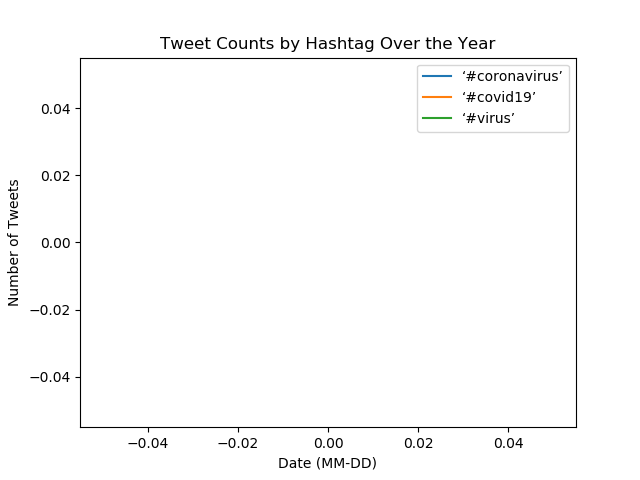
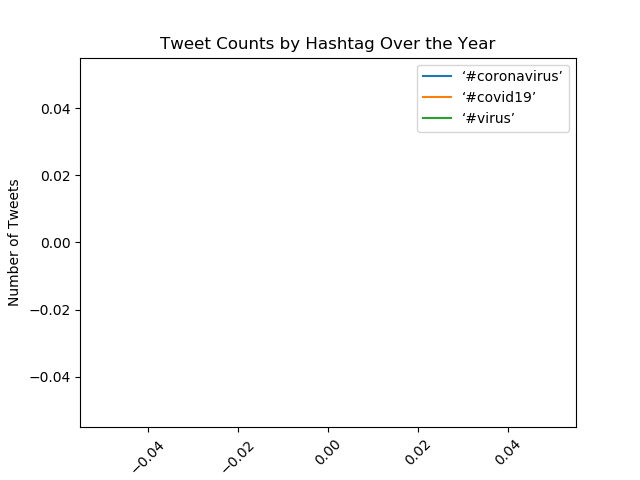
update test.png

diff --git a/src/test_reduce.py b/src/test_reduce.py
@@ -6,8 +6,8 @@ import json
 import matplotlib
 matplotlib.use('Agg')  # Use the Agg backend for non-interactive mode
 import matplotlib.pyplot as plt
+from datetime import datetime
 from collections import defaultdict
-from datetime import datetime, timedelta
 
 # Command line args
 parser = argparse.ArgumentParser()
@@ -17,7 +17,7 @@ parser.add_argument('--output_path', required=True)
 args = parser.parse_args()
 
 # Initialize data structure to store tweet counts per hashtag per day
-data = defaultdict(lambda: defaultdict(int))
+data = defaultdict(list)
 
 # Load data from input paths
 for hashtag in args.hashtags:
@@ -25,25 +25,28 @@ for hashtag in args.hashtags:
         with open(path) as f:
             tmp = json.load(f)
             if hashtag in tmp:
-                for date_str, count in tmp[hashtag].items():
-                    date = datetime.strptime(date_str, "%Y-%m-%d")  # Assuming dates are in ISO format
-                    day_of_year = date.timetuple().tm_yday
-                    data[hashtag][day_of_year] += count
+                data[hashtag].append(sum(tmp[hashtag].values()))
+
+# Convert x-axis values from days of the year to dates in MM/DD or MM-DD format
+dates = [datetime.strptime(f'2024-01-01', '%Y-%m-%d').strftime('%m/%d') for _ in range(365)]
 
 # Create a line plot for each hashtag
 for hashtag in args.hashtags:
-    x_values = list(data[hashtag].keys())
-    y_values = list(data[hashtag].values())
+    x_values = dates[:len(data[hashtag])]
+    y_values = data[hashtag]
 
     plt.plot(x_values, y_values, label=f'{hashtag}')
 
 # Add labels and title
-plt.xlabel('Date (MM-DD)')
+plt.xlabel('Date (MM/DD)')
 plt.ylabel('Number of Tweets')
 plt.title('Tweet Counts by Hashtag Over the Year')
 
 # Add legend
 plt.legend()
+
+# Rotate x-axis labels for better readability
+plt.xticks(rotation=45)
 
 # Save the line plot to a PNG file
 plt.savefig(args.output_path)
